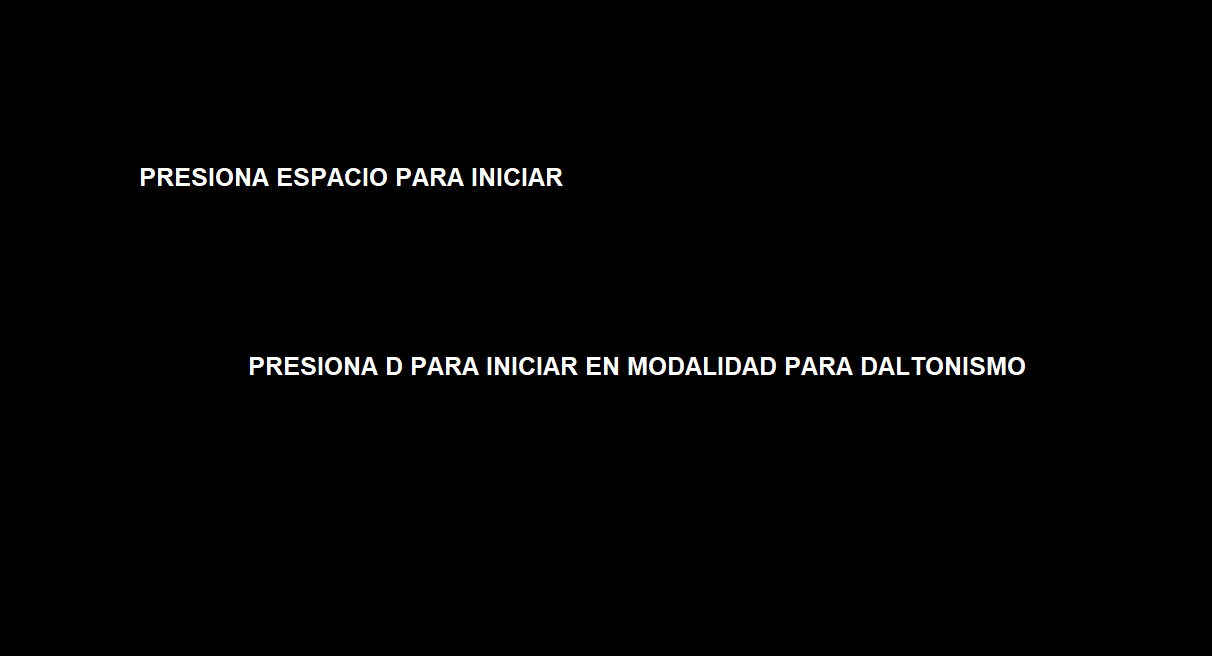
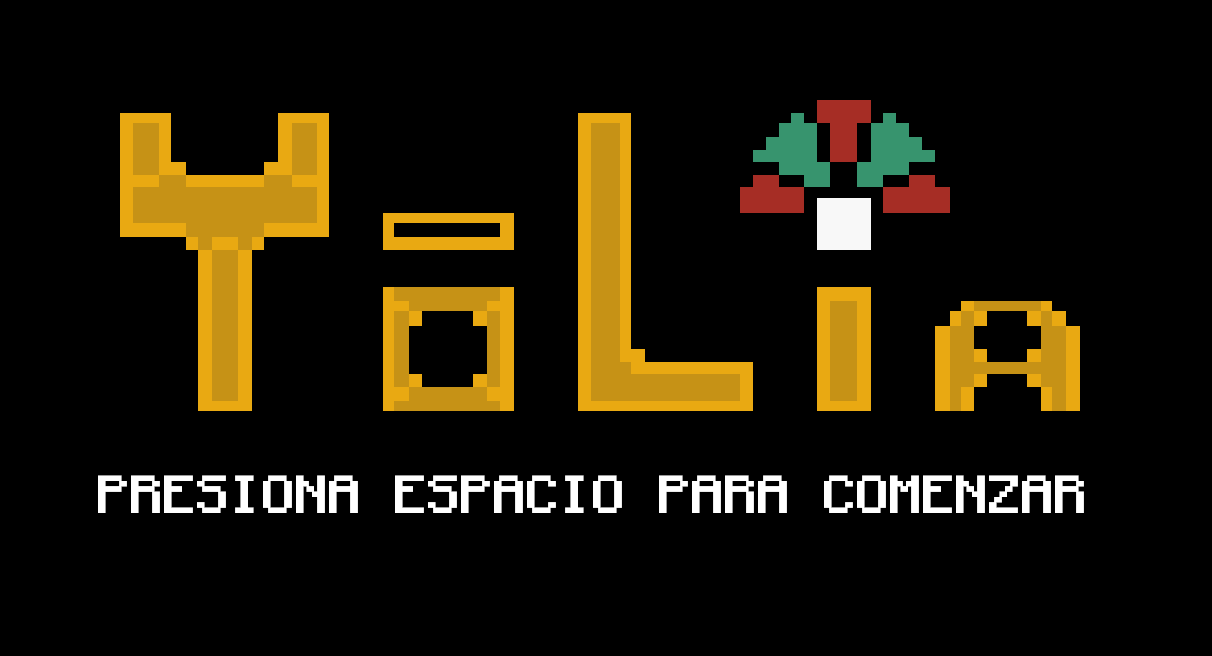
creo q ya esta falta documentar

Changed region(s): [[0.0916, 0.1524, 0.9158, 0.6402], [0.0611, 0.7012, 0.9158, 0.7927], [0.6106, 0.1524, 0.7937, 0.3963]]

diff --git a/main.py b/main.py
@@ -17,9 +17,9 @@ clock = pygame.time.Clock()
 
 ##========================================# MUSICA #========================================================#
 
-pygame.mixer.init()
-pygame.mixer.music.load("music/musica.wav")
-pygame.mixer.music.play(-1)
+# pygame.mixer.init()
+# pygame.mixer.music.load("music/musica.wav")
+# pygame.mixer.music.play(-1)
 
 ##========================================# CARGA DE FUENTE Y FONDO #=======================================#
 
@@ -30,14 +30,12 @@ fondo_surface = pygame.transform.scale2x(fondo_surface)
 ##========================================# PANTALLA DE TITULO #============================================#
 
 titulo_surface = pygame.image.load("assets/fondo.png").convert()
-nombre_surface = pygame.image.load("assets/Titulo.png").convert()
-nombre_surface = pygame.transform.scale2x(nombre_surface)
+final_surface = pygame.image.load("assets/final.png").convert()
 
 menu = True
 
 while menu == True:
     WIN.blit(titulo_surface, (0,0))
-    WIN.blit(nombre_surface, (200,50))
     pygame.display.update()
     for event in pygame.event.get():
         if event.type == pygame.QUIT:
@@ -47,7 +45,6 @@ while menu == True:
             if event.key == pygame.K_SPACE:
                 menu = False
                 game_active = True
-                Nivel.cont_nivel = 1
                 break
 
 ##========================================# PLAYERS #======================================================#
@@ -72,8 +69,6 @@ contador_fin = 0
 
 game_active = False
 llego = False
-
-WIN.blit(nombre_surface, (200,50))
 
 ##========================================# LOOP DEL JUEGO #===============================================#
 
@@ -102,11 +97,10 @@ while True:
                     #=================== DETECTA SI LLEGA A LA META
                     if(elemento.sprites()[i].tipo == "meta"):
                         if (elemento.sprites()[i].collision(jugadores[0].sprite) and elemento.sprites()[i + 1].collision(jugadores[1].sprite)):
-                            llego = True
-                            contador_fin += 1
-                            if contador_fin == 30: # 30 frames = 1/2 segundo, cuando el contador llega a 30, se pasa al siguiente nivel
-                                game_active = False
-                                Nivel.cont_nivel += 1
+                            llego = True                # Si ambos jugadores llegan a la meta, no puede moverse hasta pasar al siguiente nivel
+                            contador_fin += 1           # Se cuenta un tiempo de espera para pasar de nivel
+                            if contador_fin == 30:      # 30 frames = 1/2 segundo, cuando el contador llega a 30, se pasa al siguiente nivel
+                                game_active = False     # Se desactiva el juego, para pasar de nivel
 
                     #=================== COLISION CON PARED
                     if(elemento.sprites()[i].tipo == "pared"):
@@ -132,42 +126,65 @@ while True:
                 #=================== EMPUJAR MOVILES
                 if nivel.movil1 and nivel.movil2:
                     if(elementos[1].sprite.collision(jugadores[0].sprite)):
-                        elementos[1].sprite.mover(pos_ant1)
+                        movil1_ant = (elementos[1].sprite.rect.x, elementos[1].sprite.rect.y) # Se guarda la posicion anterior del movil1 antes de moverlo
 
-                        if (player1.sprite.rect.x + 64 > 532 or player1.sprite.rect.x - 64 < 20):
+                        elementos[1].sprite.mover(pos_ant1) # Se mueve el movil1
+
+                        # Si el movil1 colisiona con una pared, el jugador1 vuelve a su posicion anterior
+                        if (player1.sprite.rect.x + 64 > 532 or player1.sprite.rect.x - 64 < 20): 
                             player1.sprite.rect.x = pos_ant1[0]
                         if (player1.sprite.rect.y + 64 > 572 or player1.sprite.rect.y - 64 < 60):
                             player1.sprite.rect.y = pos_ant1[1]
 
                     if(elementos[2].sprite.collision(jugadores[1].sprite)):
-                        elementos[2].sprite.mover(pos_ant2)
+                        movil2_ant = (elementos[2].sprite.rect.x, elementos[2].sprite.rect.y) # Se guarda la posicion anterior del movil2 antes de moverlo
 
+                        elementos[2].sprite.mover(pos_ant2) # Se mueve el movil2
+
+                        # Si el movil2 se sale del mapa, el jugador1 vuelve a su posicion anterior
                         if (player2.sprite.rect.x + 64 > 1128 or player2.sprite.rect.x - 64 < 616):
                             player2.sprite.rect.x = pos_ant2[0]
                         if (player2.sprite.rect.y + 64 > 572 or player2.sprite.rect.y - 64 < 60):
                             player2.sprite.rect.y = pos_ant2[1]
 
-        #=================== DIBUJA JUGADORES
+                    # Si cualquier movil colisiona con un pico o una pared, se vuelve a su posicion anterior y el jugador vuelve a su posicion anterior
+                    for barrera in elementos:
+                        for i in range(len(barrera)):
+                            if (barrera.sprites()[i].tipo == "pico" or barrera.sprites()[i].tipo == "pared"):
+                                if (elementos[1].sprite.collision(barrera.sprites()[i])):
+                                    elementos[1].sprite.rect.x = movil1_ant[0]
+                                    elementos[1].sprite.rect.y = movil1_ant[1]
+                                    jugadores[0].sprite.rect.x = pos_ant1[0]
+                                    jugadores[0].sprite.rect.y = pos_ant1[1]
+                                
+                                if (elementos[2].sprite.collision(barrera.sprites()[i])):
+                                    elementos[2].sprite.rect.x = movil2_ant[0]
+                                    elementos[2].sprite.rect.y = movil2_ant[1]
+                                    jugadores[1].sprite.rect.x = pos_ant2[0]
+                                    jugadores[1].sprite.rect.y = pos_ant2[1]
+
+        #=================== DIBUJA A LOS JUGADORES
         for player in jugadores:
             player.draw(WIN)
             player.sprite.animation_state()
         
-        #=================== DIBUJA TITULO
+        #=================== DIBUJA TITULO ARRIBA
         text_font = pygame.font.Font('fonts/I-pixel-u.ttf', 60)
-        text_surface = text_font.render('YOLIA', False, 'Black')
+        text_surface = text_font.render('YOLIA', False, 'White')
         text_rectangle = text_surface.get_rect(center = (WIDTH/2, 25))
         WIN.blit(text_surface, text_rectangle)
 
-    else:
-        game_active = True
-        contador_fin = 0
+    else: # Si el juego no esta activo, se pasa al siguiente nivel
+        Nivel.cont_nivel += 1           # Se aumenta el contador de nivel
+        if Nivel.cont_nivel < 5:        # Si el contador de nivel es menor a 5, el juego sigue
+            game_active = True          # Se vuelve a activar el juego
+        contador_fin = 0                # Se reinicia el contador de frames en la meta
         llego = False
 
-        #PLAYERS
-        for player in jugadores:
+        for player in jugadores:        # Se reinicia la posicion de los jugadores
             player.sprite.restart()
 
-        if Nivel.cont_nivel == 1:
+        if Nivel.cont_nivel == 1:       # Se activa el nivel correspondiente
             nivel.nivel1()
         if Nivel.cont_nivel == 2:
             nivel.nivel2()
@@ -175,8 +192,9 @@ while True:
             nivel.nivel3()
         if Nivel.cont_nivel == 4:
             nivel.nivel4()
-        if Nivel.cont_nivel == 5:
-            WIN.blit(titulo_surface, (0,0))
+        if Nivel.cont_nivel == 5:       # Si el contador de nivel es 5, se termina el juego
+            WIN.blit(final_surface, (0,0))
+            game_active = False
 
     pygame.display.update()
     clock.tick(60)

diff --git a/movil.py b/movil.py
@@ -39,21 +39,8 @@ class Movil(Obstaculo):
             #EMPUJA A LA DERECHA
             self._rect.x += 64
 
-        ############LIMITES############
+        ############LIMITES DE MOVIMIENTO DEL OBSTACULO############
         if self._religion == 1:
-            if self._rect.x  > 1128:
-                self._rect.x = 1128
-
-            if self._rect.x  < 616:
-                self._rect.x = 616
-
-            if self._rect.y  > 572:
-                self._rect.y = 572
-
-            if self._rect.y  < 60:
-                self._rect.y = 60
-        
-        else:
             if self._rect.x  > 532:
                 self._rect.x = 532
 
@@ -63,6 +50,19 @@ class Movil(Obstaculo):
             if self._rect.y  > 572:
                 self._rect.y = 572
                 
+            if self._rect.y  < 60:
+                self._rect.y = 60
+
+        elif self._religion == 2:
+            if self._rect.x  > 1128:
+                self._rect.x = 1128
+
+            if self._rect.x  < 616:
+                self._rect.x = 616
+
+            if self._rect.y  > 572:
+                self._rect.y = 572
+
             if self._rect.y  < 60:
                 self._rect.y = 60
     
